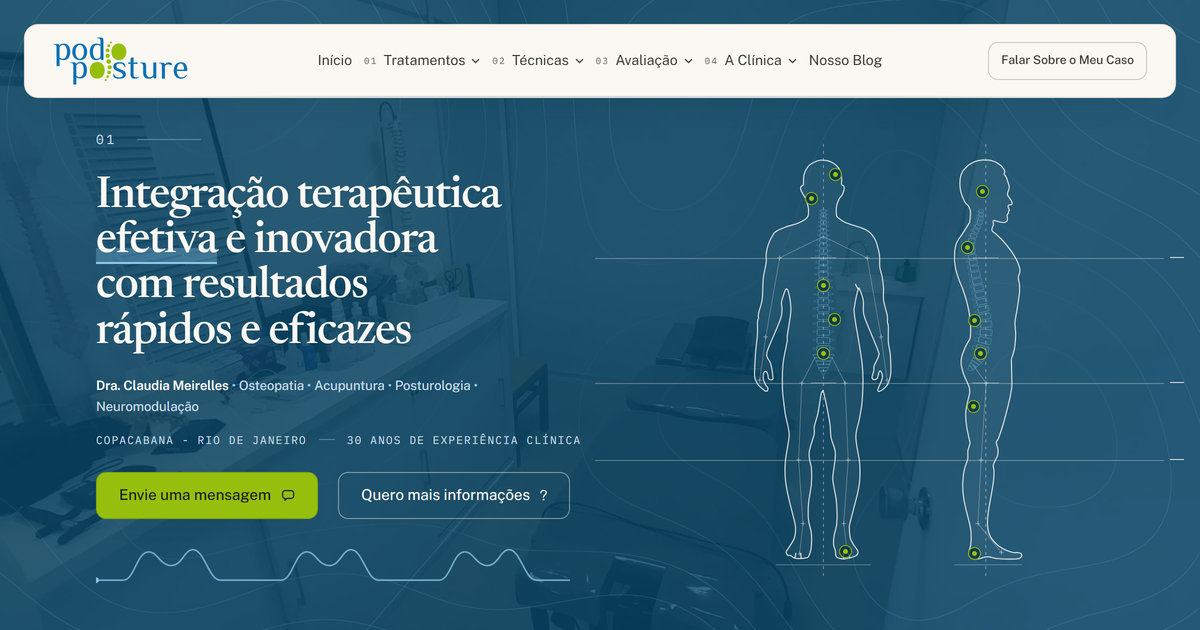
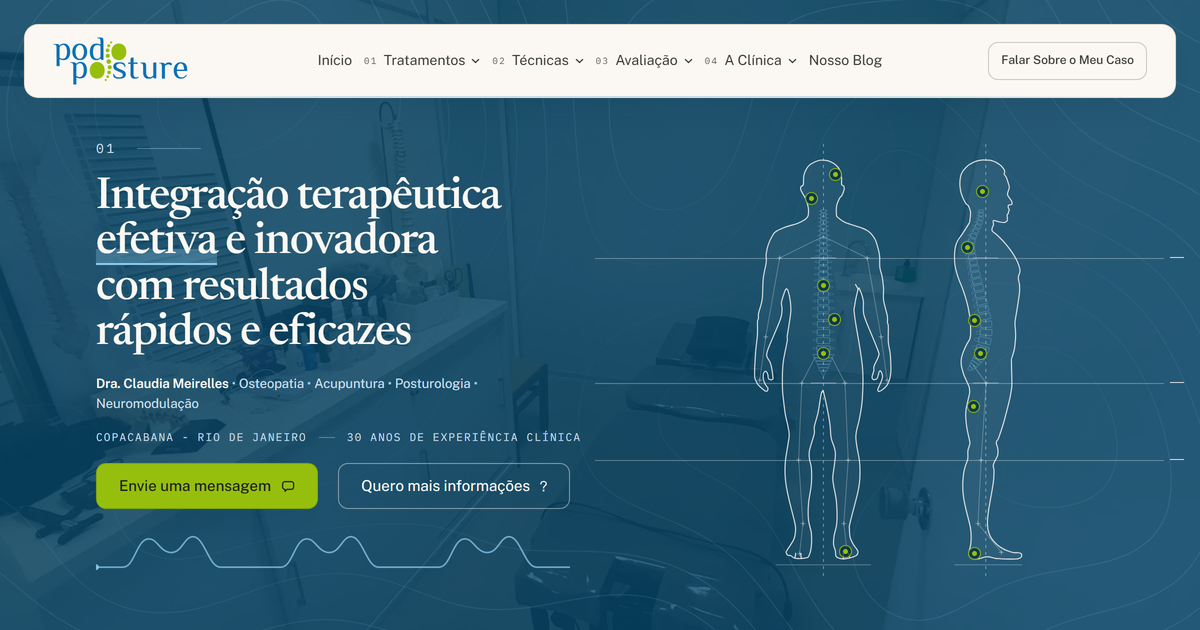
hero: um layout so para a janela baixa, ancorado em 1536x695
A faixa separada para a janela da cliente saiu. Ela dependia da barra de
favoritos: 1536x695 (laptop de trabalho) e 1536x730 (cliente) sao o mesmo
painel logico, e so a altura da barra os distinguia.

Fica a composicao aprovada em 1536x695 para toda a janela baixa: recuo de
56px no bloco de texto, --hero-texto-dir de 571/583, par de figuras centrado
no campo. O que muda com a altura e' so o respiro vertical: os cinco espacos
do bloco de texto (topo, titulo, subtitulo, botoes, curva) viram variaveis
--hv-* que andam em linha reta com a janela, ancoradas em 695, onde dao
exatamente os valores fixos de antes (114/24/20/24/16). Com mais altura
abrem um pouco, com teto; com menos apertam ate o piso.

Medido:
  1536x695  identico ao aprovado.
  1536x730  mesma composicao; espacos um pouco maiores e figuras de 361px
            contra 341, porque a altura delas ja segue a janela.
  1280x586  antes o hero passava 26px da janela e a curva de marcha era
            cortada na dobra; agora cabe, com a curva 37px acima da borda.

Sem rolagem horizontal e CLS ~0 em 1536x695, 1536x730, 1280x586, 1440 e 390.
tsc, vitest (709), eslint e build limpos. og.png regerado.

diff --git a/src/components/hero.tsx b/src/components/hero.tsx
@@ -255,11 +255,11 @@ export function Hero({
           texto ja esta na goteira de 40px da grade). O preco e' que a
           margem esquerda do hero nao bate mais com a do cabecalho e a das
           secoes abaixo nessas larguras. Foi pedido. */}
-      <div className="mx-auto grid max-w-[1240px] grid-cols-1 items-center gap-0 px-6 pt-32 pb-16 lg:min-h-svh lg:max-w-[1340px] lg:grid-cols-12 lg:gap-6 lg:px-10 lg:pt-[122px] lg:pb-16 lg:[@media(max-height:860px)]:pt-[114px] lg:[@media(max-height:860px)]:pb-7">
+      <div className="mx-auto grid max-w-[1240px] grid-cols-1 items-center gap-0 px-6 pt-32 pb-16 lg:min-h-svh lg:max-w-[1340px] lg:grid-cols-12 lg:gap-6 lg:px-10 lg:pt-[122px] lg:pb-16 lg:[@media(max-height:860px)]:pt-[var(--hv-topo)] lg:[@media(max-height:860px)]:pb-7">
         {/* .hero-texto (globals.css): na janela baixa o bloco inteiro anda
-            56px para a direita, a composicao aprovada para laptop; na janela
-            da cliente (1536x730 e 1280x586) o recuo sai. O porque da faixa
-            estreita esta no bloco "JANELA DA CLIENTE" do globals.css. */}
+            56px para a direita, a composicao aprovada para laptop. Vale para
+            qualquer altura ate 860px, sem faixa por maquina (ver o bloco
+            "Recuo do bloco de texto" no globals.css). */}
         <div className="hero-texto relative z-10 lg:col-span-9">
           <div className="rule-in" style={{ ["--in-delay" as string]: "80ms" }}>
             <SectionMark n="01" tone="deep" destaque sobreFoto />
@@ -315,7 +315,7 @@ export function Hero({
             rolaria para o lado no telefone.
           */}
           <h1
-            className="rule-in mt-9 font-display lg:mt-11 [@media(max-height:860px)]:mt-6 text-[32px] min-[390px]:text-[36px] sm:text-[54px] lg:text-[56px] xl:text-[64px] lg:[@media(max-height:860px)]:text-[44px] xl:[@media(max-height:860px)]:text-[52px] leading-[1.03] font-medium tracking-[-0.025em] text-paper [overflow-wrap:break-word]"
+            className="rule-in mt-9 font-display lg:mt-11 [@media(max-height:860px)]:mt-6 lg:[@media(max-height:860px)]:mt-[var(--hv-titulo)] text-[32px] min-[390px]:text-[36px] sm:text-[54px] lg:text-[56px] xl:text-[64px] lg:[@media(max-height:860px)]:text-[44px] xl:[@media(max-height:860px)]:text-[52px] leading-[1.03] font-medium tracking-[-0.025em] text-paper [overflow-wrap:break-word]"
             style={{ ["--in-delay" as string]: "220ms" }}
           >
             <TituloEmLinhas linhas={conteudo.tituloLinhas} destaque={conteudo.destaque} />
@@ -387,7 +387,7 @@ export function Hero({
             inseparavel. Linha sem bullet quebra normalmente.
           */}
           <p
-            className="rule-in mt-[22px] text-[1rem] leading-[1.6] text-on-hero lg:mt-[26px] lg:max-w-[540px] lg:text-[14px] xl:max-w-[615px] xl:text-[16px] lg:[@media(max-height:860px)]:mt-[20px] lg:[@media(max-height:860px)]:max-w-[425px] lg:[@media(max-height:860px)]:text-[13px] lg:[@media(max-height:860px)]:font-[450] lg:[@media(max-height:860px)]:tracking-[-0.006em] xl:[@media(max-height:860px)]:max-w-[500px]"
+            className="rule-in mt-[22px] text-[1rem] leading-[1.6] text-on-hero lg:mt-[26px] lg:max-w-[540px] lg:text-[14px] xl:max-w-[615px] xl:text-[16px] lg:[@media(max-height:860px)]:mt-[var(--hv-subtitulo)] lg:[@media(max-height:860px)]:max-w-[425px] lg:[@media(max-height:860px)]:text-[13px] lg:[@media(max-height:860px)]:font-[450] lg:[@media(max-height:860px)]:tracking-[-0.006em] xl:[@media(max-height:860px)]:max-w-[500px]"
             style={{ ["--in-delay" as string]: "420ms" }}
           >
             <Pedacos pedacos={credencial} />
@@ -438,7 +438,7 @@ export function Hero({
               Clinica da Dor Persistente, a porta de entrada clinica. O teto de
               24 caracteres do rotulo e' o que a borda medida em lg aguenta. */}
             <div
-              className="rule-in mt-10 flex flex-col gap-3 sm:flex-row sm:items-center sm:gap-4 lg:mt-12 lg:gap-5 lg:[@media(max-height:860px)]:mt-6"
+              className="rule-in mt-10 flex flex-col gap-3 sm:flex-row sm:items-center sm:gap-4 lg:mt-12 lg:gap-5 lg:[@media(max-height:860px)]:mt-[var(--hv-botoes)]"
               style={{ ["--in-delay" as string]: "620ms" }}
             >
               {conteudo.botoes.map((botao, i) => {
@@ -477,7 +477,7 @@ export function Hero({
             <svg
               aria-hidden="true"
               viewBox="0 0 420 46"
-              className="rule-in mt-8 h-auto w-full max-w-[440px] sm:max-w-none lg:mt-10 [@media(max-height:860px)]:mt-4"
+              className="rule-in mt-8 h-auto w-full max-w-[440px] sm:max-w-none lg:mt-10 [@media(max-height:860px)]:mt-4 lg:[@media(max-height:860px)]:mt-[var(--hv-curva)]"
               style={{ ["--in-delay" as string]: "760ms" }}
             >
               <path

diff --git a/src/app/globals.css b/src/app/globals.css
@@ -641,49 +641,23 @@ body {
   .hero-texto {
     padding-left: 56px;
   }
-}
 
-/* ===============================================================
-   HERO — JANELA DA CLIENTE (2026-09-21)
-
-   A cliente abre o site num Dell Inspiron 14 7460: painel de 1920x1080 com o
-   Windows em 125%, o que da 1536 de largura em pixels de CSS e, no Chrome
-   maximizado sem barra de favoritos, 730 de altura (738 no Windows 10, cuja
-   barra de tarefas e' 8px mais baixa). Em 150% seriam 1280x586.
-   Nessa janela o recuo acima e o par centrado abriam 76px entre a marca do
-   cabecalho e o texto, e 164px entre o texto e as figuras, contra 20 e 57 em
-   1440x900. Aqui o recuo sai e o par encosta no texto: 20 e 57, como 1440.
-
-   POR QUE UMA FAIXA ESTREITA, E NAO "JANELA BAIXA". O laptop em que o site e'
-   desenhado (Dell Inspiron 15 5510) tem o MESMO painel logico: 1920x1080 a
-   125%, 1536 de largura. So a altura separa os dois, porque o Chrome dele
-   mostra a barra de favoritos em todas as abas: 1536x695, contra 730 da
-   cliente. O corte em 712 fica no meio. Isto e' fragil de proposito e por
-   falta de alternativa: se a cliente ligar a barra de favoritos, ela cai em
-   ~695 e ve a composicao de laptop; se a barra do outro laptop for
-   desligada, ele passa a ver a da cliente. Nenhuma media query distingue
-   dois paineis iguais.
-
-   O teto de 33px no deslocamento do par: numa janela curta a altura das
-   figuras sai da janela, nao do campo, e centrar o par no campo largo abre o
-   vao em dois; com o teto a sobra vai inteira para o lado dos rotulos, onde
-   os fios a absorvem, e o vao fica em 57px (33 + os 24 de folga).
-   =============================================================== */
-@media (min-width: 1500px) and (max-width: 1560px) and (min-height: 712px) and (max-height: 770px),
-  (min-width: 1280px) and (max-width: 1300px) and (min-height: 540px) and (max-height: 610px) {
-  .hero-texto {
-    padding-left: 0;
-  }
-
-  .hero-campo {
-    --hero-texto-dir: calc(max(0px, (100vw - 1340px) / 2) + 527px);
-  }
-
-  .hero-par {
-    left: min(
-      calc((var(--hero-campo-w) - var(--hero-reserva) - var(--hero-par-w)) / 2),
-      33px
-    );
+  /* RESPIRO VERTICAL DA JANELA BAIXA (2026-09-21). Uma composicao so para
+     qualquer altura ate 860px, sem faixa por maquina: os espacos entre as
+     pecas do bloco de texto seguem a altura da janela, em linha reta.
+     A ancora e' 695px, a janela aprovada (1536x695): ali cada espaco da
+     exatamente o valor fixo que tinha antes (114 / 24 / 20 / 24 / 16).
+     Com mais altura o bloco respira um pouco mais, com teto; com menos, ele
+     aperta ate o piso, que e' o que faz 1280x586 caber na dobra com a curva
+     de marcha inteira (sem isto o hero passava 26px da janela). Cada k e'
+     (valor em 695 - piso) / 109, os 109px entre 695 e 586.
+     O topo tem piso de 106: abaixo disso o numeral encosta no cabecalho. */
+  :root {
+    --hv-topo: clamp(106px, calc(114px + (100svh - 695px) * 0.073), 124px);
+    --hv-titulo: clamp(12px, calc(24px + (100svh - 695px) * 0.11), 30px);
+    --hv-subtitulo: clamp(14px, calc(20px + (100svh - 695px) * 0.055), 24px);
+    --hv-botoes: clamp(12px, calc(24px + (100svh - 695px) * 0.11), 30px);
+    --hv-curva: clamp(10px, calc(16px + (100svh - 695px) * 0.055), 20px);
   }
 }
 
